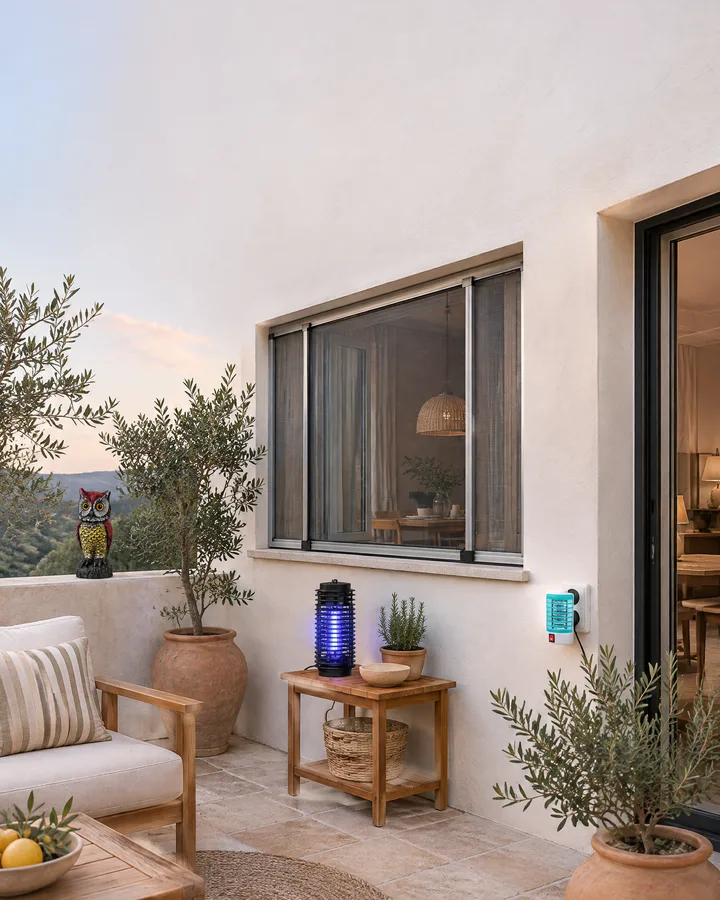
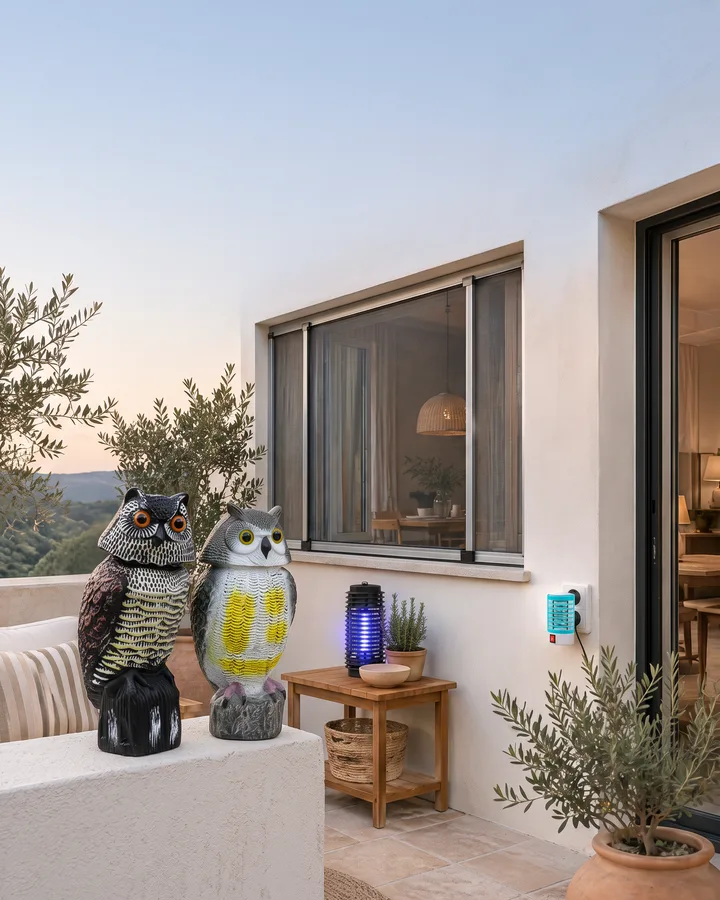
Catálogo Protect: portada nueva con los búhos en primer plano
Claude-Session: https://claude.ai/code/session_016vX2tAnYJNsb3voomsbycX

diff --git a/protect/index.html b/protect/index.html
@@ -19,7 +19,7 @@
 <meta property="og:image" content="/protect/img/og.jpg">
 <link rel="preload" href="/shared/fonts/inter-tight-latin-wght-normal.woff2" as="font" type="font/woff2" crossorigin>
 <link rel="stylesheet" href="/shared/catalogo.css?v=5">
-<style>:root{--ov:14,11,8;--glow:255,200,0;--ink:#1F1B17;--ink-hover:#3A332C;--ink-deep:#12100D;--ink-night:#0B0907;--ink-soft:#F3EFE3;--ink-line:rgba(31,27,23,.14);--gold:#9A7A00;--gold-bright:#FFD21F;--gold-soft:#FFF4C2;--stage:#15120F;--bar:rgba(20,17,14,.82);--cover-img:url("/protect/img/portada.webp?v=6");}</style>
+<style>:root{--ov:14,11,8;--glow:255,200,0;--ink:#1F1B17;--ink-hover:#3A332C;--ink-deep:#12100D;--ink-night:#0B0907;--ink-soft:#F3EFE3;--ink-line:rgba(31,27,23,.14);--gold:#9A7A00;--gold-bright:#FFD21F;--gold-soft:#FFF4C2;--stage:#15120F;--bar:rgba(20,17,14,.82);--cover-img:url("/protect/img/portada.webp?v=7");}</style>
 </head>
 <body>
 
@@ -175,7 +175,7 @@
 <div class="toast" id="toast" role="status" aria-live="polite"><svg width="18" height="18" fill="none" viewBox="0 0 24 24" stroke="currentColor" stroke-width="2.2" stroke-linecap="round" stroke-linejoin="round" aria-hidden="true"><path d="m5 12 5 5 9-10"/></svg><span></span></div>
 <div class="print-sheet" id="printSheet"></div>
 
-<script>window.BRAND = {"key": "protect", "base": "/protect", "name": "Criscolor Protect", "short": "Protect 2026", "label": "Criscolor Protect · Catálogo 2026", "fileKey": "Criscolor-Protect-2026", "kicker": "Protección frente a insectos, roedores y aves", "coverTitle": "<em>Protect</em>", "logo": "/protect/img/logo.png", "logoCover": "/protect/img/logo-negativo.png", "coverThumb": "/protect/img/portada-thumb.webp", "imgv": "?v=6", "intro": "Las 133 referencias de Criscolor Protect, una a una: cada referencia tiene su propia ficha a gran tamaño, con su código, su EAN y toda la información del producto."};</script>
+<script>window.BRAND = {"key": "protect", "base": "/protect", "name": "Criscolor Protect", "short": "Protect 2026", "label": "Criscolor Protect · Catálogo 2026", "fileKey": "Criscolor-Protect-2026", "kicker": "Protección frente a insectos, roedores y aves", "coverTitle": "<em>Protect</em>", "logo": "/protect/img/logo.png", "logoCover": "/protect/img/logo-negativo.png", "coverThumb": "/protect/img/portada-thumb.webp?v=7", "imgv": "?v=6", "intro": "Las 133 referencias de Criscolor Protect, una a una: cada referencia tiene su propia ficha a gran tamaño, con su código, su EAN y toda la información del producto."};</script>
 <script src="/protect/data.js?v=1"></script>
 <script src="/shared/vendor/page-flip.browser.js"></script>
 <script src="/shared/catalogo.js?v=3"></script>

diff --git a/catalogos/index.html b/catalogos/index.html
@@ -89,7 +89,7 @@ footer b { color:var(--text); }
   <div class="sec-h"><h2>Catálogos de marca</h2><span id="cnt">10 catálogos</span></div>
   <div class="grid" id="grid">
 <a class="cat" id="protect" href="/protect" style="--acc:#FFD21F;--bink:#1F1B17" data-q="criscolor protect protección frente a insectos, roedores y aves mosquitos enchufes, repelentes, pulseras y espirales de citronela para dormir y disfrutar del verano sin picaduras. moscas e insectos voladores lámparas, raquetas, tiras adhesivas, trampas y matamoscas para moscas, avispas e insectos voladores. rastreros y polillas geles, polvos y trampas para hormigas y cucarachas, y trampas para polillas en armarios y despensas. roedores la gama roetón: cebos, colas y trampas, ratoneras de madera, jaulas trampa y ahuyentadores solares. ahuyentadores de aves búhos y cuervos ahuyentadores, varillas y cintas reflectantes, desviadores y pinchos antipalomas. mosquiteras mosquiteras para ventana y puerta en blanco y negro, extensibles de aluminio y para carro de bebé." aria-label="Ver catálogo Criscolor Protect">
-  <img class="ph" src="/protect/img/portada-card.webp?v=8" alt="" loading="lazy" width="720" height="900">
+  <img class="ph" src="/protect/img/portada-card.webp?v=9" alt="" loading="lazy" width="720" height="900">
   <img class="logo" src="/protect/img/logo-negativo.png?v=8" alt="Criscolor Protect">
   <span class="open">Ver catálogo <span aria-hidden="true">→</span></span>
 </a>
